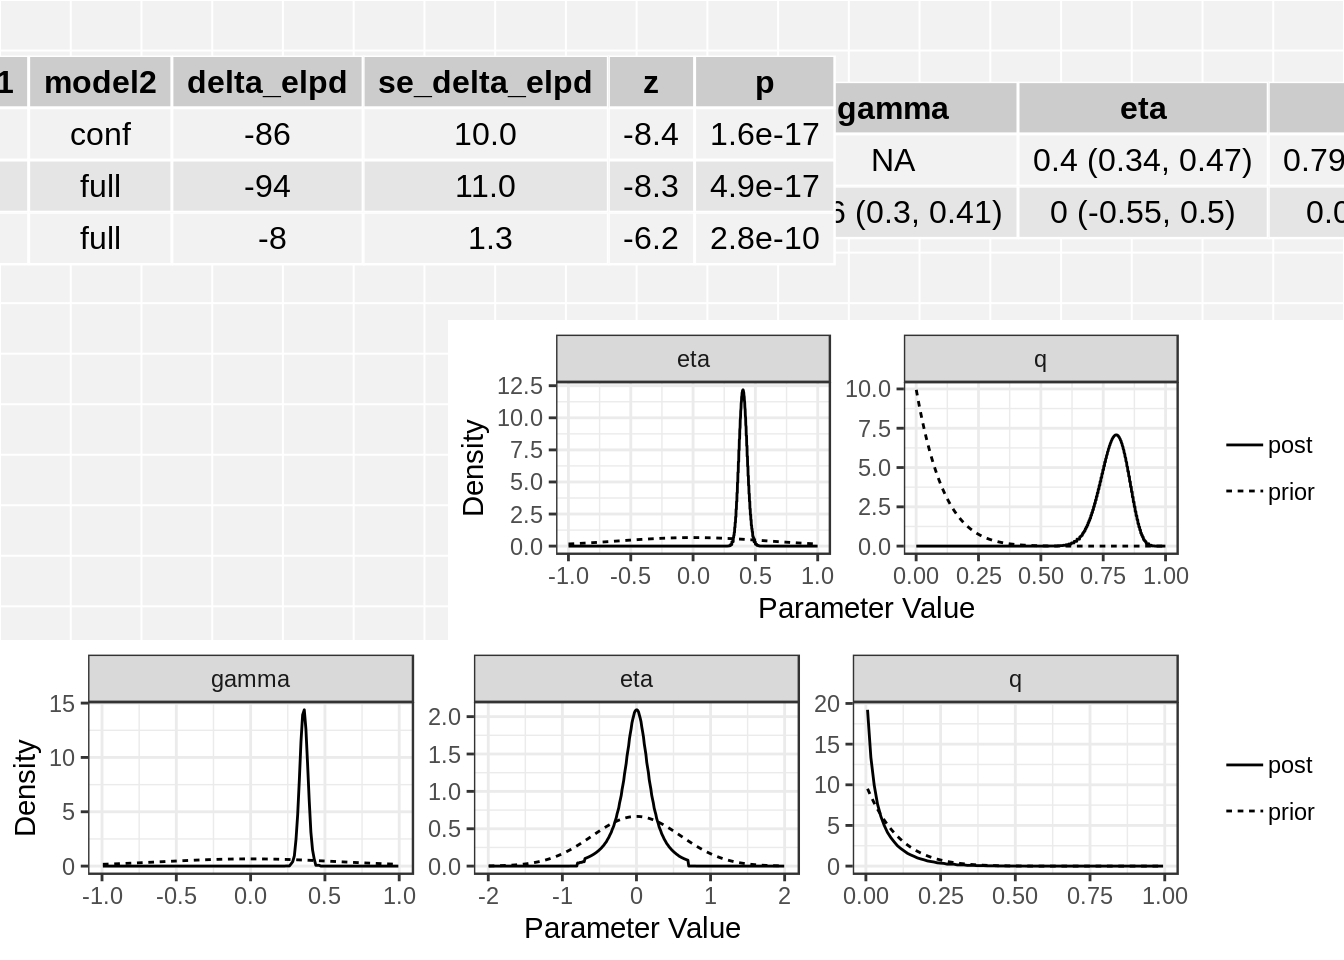
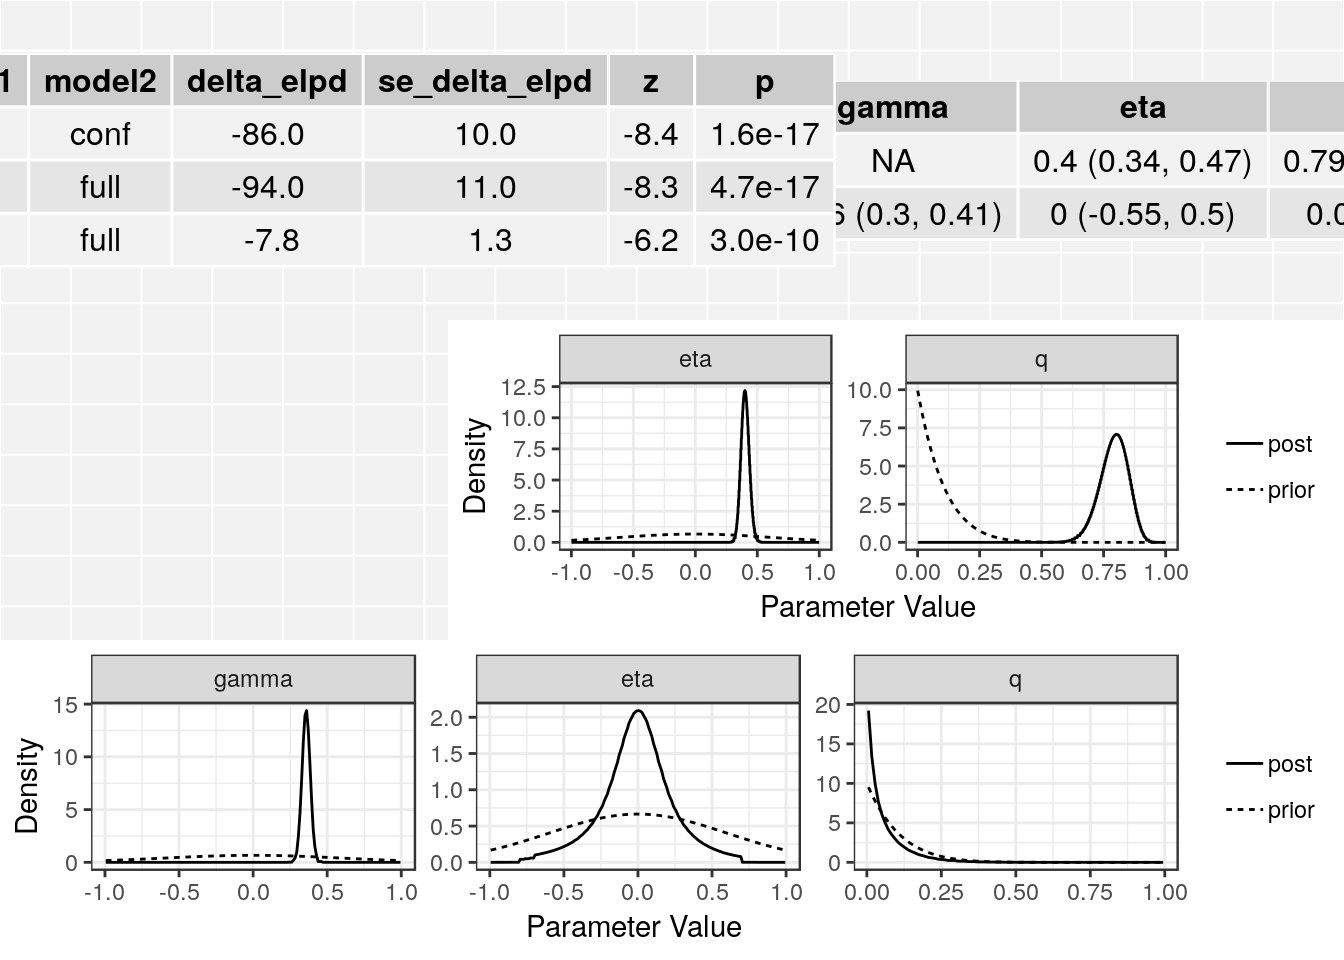
update website

diff --git a/docs/ldl_cad.html b/docs/ldl_cad.html
@@ -323,7 +323,7 @@ div.section {
 </div>
 
 
-<p><strong>Last updated:</strong> 2018-10-24</p>
+<p><strong>Last updated:</strong> 2018-11-06</p>
 <strong>workflowr checks:</strong> <small>(Click a bullet for more information)</small>
 <ul>
 <li>
@@ -347,7 +347,7 @@ div.section {
 </details>
 </li>
 <li>
-<p><details> <summary> <strong style="color:blue;">✔</strong> <strong>Repository version:</strong> <a href="https://github.com/jean997/cause/tree/48bdf215b8c526c53cc9a0308677675ef231b2e9" target="_blank">48bdf21</a> </summary></p>
+<p><details> <summary> <strong style="color:blue;">✔</strong> <strong>Repository version:</strong> <a href="https://github.com/jean997/cause/tree/2652be12bb63e67611ef6eee0647254b790ba52a" target="_blank">2652be1</a> </summary></p>
 Great! You are using Git for version control. Tracking code development and connecting the code version to the results is critical for reproducibility. The version displayed above was the version of the Git repository at the time these results were generated. <br><br> Note that you need to be careful to ensure that all relevant files for the analysis have been committed to Git prior to generating the results (you can use <code>wflow_publish</code> or <code>wflow_git_commit</code>). workflowr only checks the R Markdown file, but you know if there are other scripts or data files that it depends on. Below is the status of the Git repository when the results were generated:
 <pre><code>
 Ignored files:
@@ -372,6 +372,8 @@ Untracked files:
     Untracked:  example_data/snp_overlap_ldpruned.txt
     Untracked:  example_data/top_ldl_pruned_vars.1.RDS
     Untracked:  ll_v7_notes.Rmd
+    Untracked:  man/print.summary_cause_post.Rd
+    Untracked:  man/summary.cause_post.Rd
     Untracked:  matrix_lik.RDS
     Untracked:  quantile_sampling.R
     Untracked:  src/RcppExports.o
@@ -381,7 +383,7 @@ Untracked files:
     Untracked:  test_mixSQP.R
 
 Unstaged changes:
-    Modified:   R/cause_grid_adapt.R
+    Modified:   R/cause.R
 
 </code></pre>
 Note that any generated files, e.g. HTML, png, CSS, etc., are not included in this status report because it is ok for generated content to have uncommitted changes. </details>
@@ -410,6 +412,40 @@ Message
 </tr>
 </thead>
 <tbody>
+<tr>
+<td style="text-align:left;">
+Rmd
+</td>
+<td style="text-align:left;">
+<a href="https://github.com/jean997/cause/blob/2652be12bb63e67611ef6eee0647254b790ba52a/analysis/ldl_cad.Rmd" target="_blank">2652be1</a>
+</td>
+<td style="text-align:left;">
+Jean Morrison
+</td>
+<td style="text-align:left;">
+2018-11-06
+</td>
+<td style="text-align:left;">
+wflow_publish(“analysis/ldl_cad.Rmd”)
+</td>
+</tr>
+<tr>
+<td style="text-align:left;">
+html
+</td>
+<td style="text-align:left;">
+<a href="https://cdn.rawgit.com/jean997/cause/6ae7a60c30167592b1328cc1ee64958f29086ee1/docs/ldl_cad.html" target="_blank">6ae7a60</a>
+</td>
+<td style="text-align:left;">
+Jean Morrison
+</td>
+<td style="text-align:left;">
+2018-10-24
+</td>
+<td style="text-align:left;">
+build website
+</td>
+</tr>
 <tr>
 <td style="text-align:left;">
 Rmd
@@ -792,9 +828,9 @@ top_ldl_pruned_vars &lt;- unlist(purrr::map(pruned, 2))</code></pre>
 <pre class="r"><code>varlist &lt;- readRDS(&quot;example_data/genome_wide_pruned_vars.RDS&quot;)
 params &lt;- est_cause_params(X, varlist)</code></pre>
 <pre><code>1 0.04269384 
-2 9.226364e-05 
-3 4.889476e-07 
-4 2.369153e-09 </code></pre>
+2 9.226389e-05 
+3 4.890611e-07 
+4 8.099619e-09 </code></pre>
 <p>The object <code>params</code> is of class <code>cause_params</code> and contains information about the fit as well as the maximum a posteriori estimates of the mixing parameters (<span class="math inline">\(\pi\)</span>) and <span class="math inline">\(\rho\)</span>. The object <code>params$mix_grid</code> is a data frame defining the distribution of summary statistics. The column <code>S1</code> is the variance for trait 1 (<span class="math inline">\(M\)</span>), the column <code>S2</code> is the variance for trait 2 (<span class="math inline">\(Y\)</span>) and the column <code>pi</code> is the mixture proportion assigned to that variance combination.</p>
 <pre class="r"><code>class(params)</code></pre>
 <pre><code>[1] &quot;cause_params&quot;</code></pre>
@@ -806,9 +842,9 @@ params &lt;- est_cause_params(X, varlist)</code></pre>
 <pre class="r"><code>head(params$mix_grid)</code></pre>
 <pre><code>           S1          S2           pi
 1 0.000000000 0.000000000 0.5775164448
-2 0.000000000 0.003844598 0.0671561630
+2 0.000000000 0.003844598 0.0671561629
 3 0.000000000 0.005437082 0.1814078269
-4 0.004607137 0.005437082 0.1496411493
+4 0.004607137 0.005437082 0.1496411494
 5 0.000000000 0.015378390 0.0123144988
 6 0.004607137 0.015378390 0.0002248187</code></pre>
 <p>So, for example, in this case, we have estimated that 58% of variants have trait 1 variance and trait 2 equal to 0 meaning that they have no association with either trait.</p>
@@ -828,12 +864,12 @@ res &lt;- cause(X=X, variants = top_vars, param_ests = params)</code></pre>
 <pre class="r"><code>class(res)</code></pre>
 <pre><code>[1] &quot;cause&quot;</code></pre>
 <pre class="r"><code>names(res)</code></pre>
-<pre><code>[1] &quot;conf&quot; &quot;full&quot; &quot;elpd&quot;</code></pre>
+<pre><code>[1] &quot;conf&quot; &quot;full&quot; &quot;elpd&quot; &quot;loos&quot; &quot;data&quot;</code></pre>
 <pre class="r"><code>res$elpd</code></pre>
 <pre><code>  model1 model2 delta_elpd se_delta_elpd         z
-1   null   conf -85.707878     10.152051 -8.442420
-2   null   full -93.680331     11.277130 -8.307108
-3   conf   full  -7.972453      1.285898 -6.199910</code></pre>
+1   null   conf -85.707877     10.152051 -8.442420
+2   null   full -93.539833     11.253681 -8.311932
+3   conf   full  -7.831956      1.265622 -6.188229</code></pre>
 <pre class="r"><code>class(res$conf)</code></pre>
 <pre><code>[1] &quot;cause_post&quot;</code></pre>
 <pre class="r"><code>class(res$full)</code></pre>
@@ -845,7 +881,7 @@ res &lt;- cause(X=X, variants = top_vars, param_ests = params)</code></pre>
 <li>se_delta_elpd: Estimated standard error of delta_elpd</li>
 <li>z: delta_elpd/se_delta_elpd. A z-score that can be compared to a normal distribution to test if the difference in model fit is significant.</li>
 </ul>
-<p>In this case we see that the full (causal) model is significantly better than the confounding model from the thrid line of the table. The <span class="math inline">\(z\)</span>-score is -6.2 corresponding to a p-value of 2.810^{-10}.</p>
+<p>In this case we see that the full (causal) model is significantly better than the confounding model from the thrid line of the table. The <span class="math inline">\(z\)</span>-score is -6.19 corresponding to a p-value of 310^{-10}.</p>
 <p>For each model (confounding and full) we can plot the posterior distributions of the parameters. Dotted lines show the prior distributions.</p>
 <pre class="r"><code>plot(res$conf)</code></pre>
 <p><img src="figure/ldl_cad.Rmd/plot1-1.png" width="672" style="display: block; margin: auto;" /></p>
@@ -957,7 +993,7 @@ Jean Morrison
 <p></details></p>
 <p>The <code>summary</code> method will summarize the posterior medians and credible intervals.</p>
 <pre class="r"><code>summary(res, ci_size=0.95)</code></pre>
-<pre><code>p-value testing that causal model is a better fit:  2.8e-10 
+<pre><code>p-value testing that causal model is a better fit:  3e-10 
 Posterior medians and  95 % credible intervals:
      model              gamma              eta               
 [1,] &quot;Confounding Only&quot; NA                 &quot;0.4 (0.34, 0.47)&quot;
@@ -1020,13 +1056,16 @@ Jean Morrison
 </tbody>
 </table>
 <p></details></p>
+<p>The <code>plot</code> method can also produce scatter plots of the data showing for each model, the probability that each variant is acting through the confounder and the contribution of each variant to the ELPD test statistic.</p>
+<pre class="r"><code>plot(res, type=&quot;data&quot;)</code></pre>
+<p><img src="figure/ldl_cad.Rmd/plot3-1.png" width="672" style="display: block; margin: auto;" /></p>
 </div>
 <div id="session-information" class="section level2">
 <h2>Session information</h2>
 <pre class="r"><code>sessionInfo()</code></pre>
 <pre><code>R version 3.5.1 (2018-07-02)
 Platform: x86_64-pc-linux-gnu (64-bit)
-Running under: Linux Mint 19
+Running under: Ubuntu 18.04.1 LTS
 
 Matrix products: default
 BLAS: /usr/lib/x86_64-linux-gnu/blas/libblas.so.3.7.1
@@ -1044,13 +1083,13 @@ attached base packages:
 [1] stats     graphics  grDevices utils     datasets  methods   base     
 
 other attached packages:
-[1] bindrcpp_0.2.2   cause_0.2.0.0054 dplyr_0.7.7      readr_1.1.1     
+[1] bindrcpp_0.2.2   cause_0.2.0.0073 dplyr_0.7.6      readr_1.1.1     
 
 loaded via a namespace (and not attached):
- [1] tidyselect_0.2.5   ashr_2.2-21        purrr_0.2.5       
+ [1] tidyselect_0.2.4   ashr_2.2-19        purrr_0.2.5       
  [4] lattice_0.20-35    colorspace_1.3-2   htmltools_0.3.6   
  [7] loo_2.0.0          yaml_2.2.0         utf8_1.1.4        
-[10] rlang_0.2.2        R.oo_1.22.0        mixsqp_0.1-62     
+[10] rlang_0.2.2        R.oo_1.22.0        mixsqp_0.1-58     
 [13] pillar_1.3.0       glue_1.3.0         R.utils_2.7.0     
 [16] matrixStats_0.54.0 foreach_1.4.4      bindr_0.1.1       
 [19] plyr_1.8.4         stringr_1.3.1      munsell_0.5.0     
@@ -1060,7 +1099,7 @@ loaded via a namespace (and not attached):
 [31] parallel_3.5.1     fansi_0.3.0        Rcpp_0.12.19      
 [34] backports_1.1.2    scales_1.0.0       RcppParallel_4.4.1
 [37] truncnorm_1.0-8    gridExtra_2.3      ggplot2_3.0.0     
-[40] hms_0.4.2          digest_0.6.18      stringi_1.2.4     
+[40] hms_0.4.2          digest_0.6.17      stringi_1.2.4     
 [43] numDeriv_2016.8-1  grid_3.5.1         rprojroot_1.3-2   
 [46] cli_1.0.1          tools_3.5.1        magrittr_1.5      
 [49] lazyeval_0.2.1     tibble_1.4.2       crayon_1.3.4      
